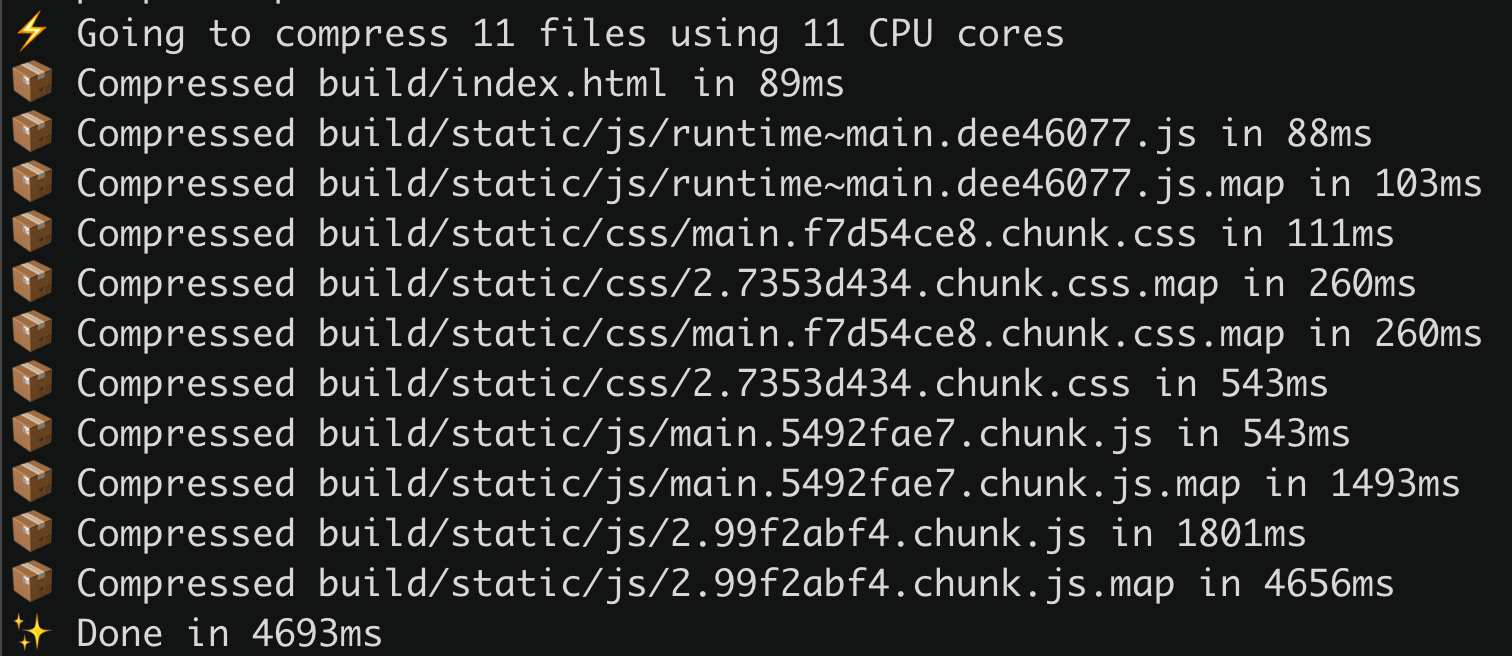
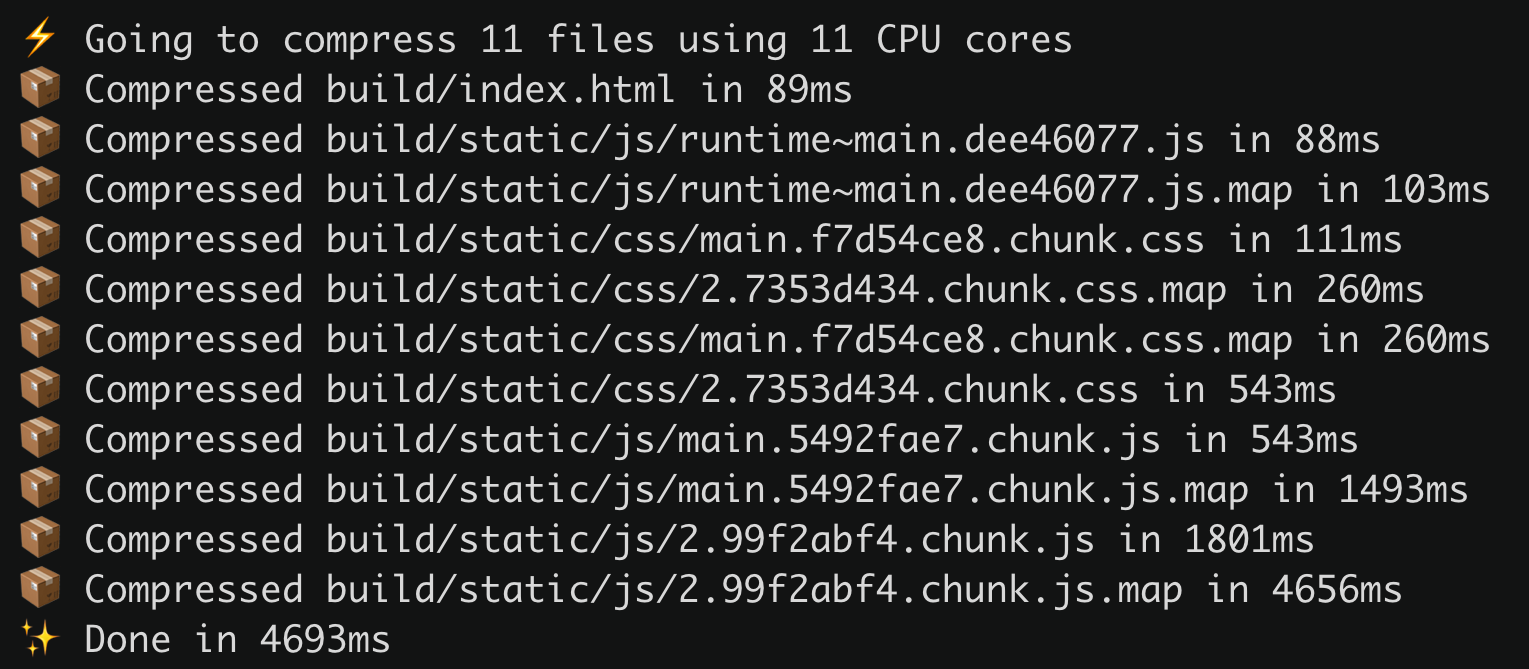
tweak screenshot

Changed region(s): [[0.0, 0.0305, 0.9947, 1.0]]

diff --git a/README.md b/README.md
@@ -6,7 +6,7 @@
 Compresses files for use with web servers like nginx with the `gzip_static` and `brotli_static` directives. Files are compressed in parallel, using the available CPU cores efficiently. Existing output files will always be overridden.
 
 <p align="center">
-  <img src="https://i.imgur.com/Zd4S8VO.png"/>
+  <img src="https://i.imgur.com/xRGtvdV.png"/>
 </p>
 
 ## Installation
